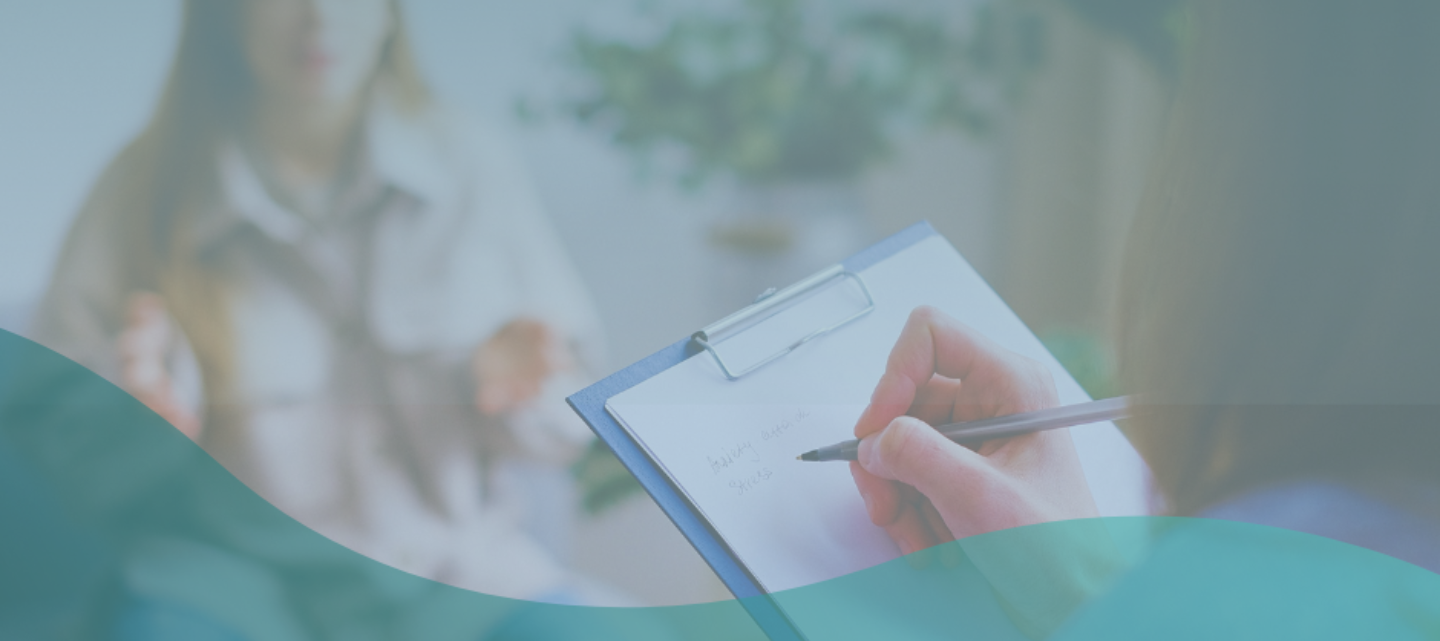
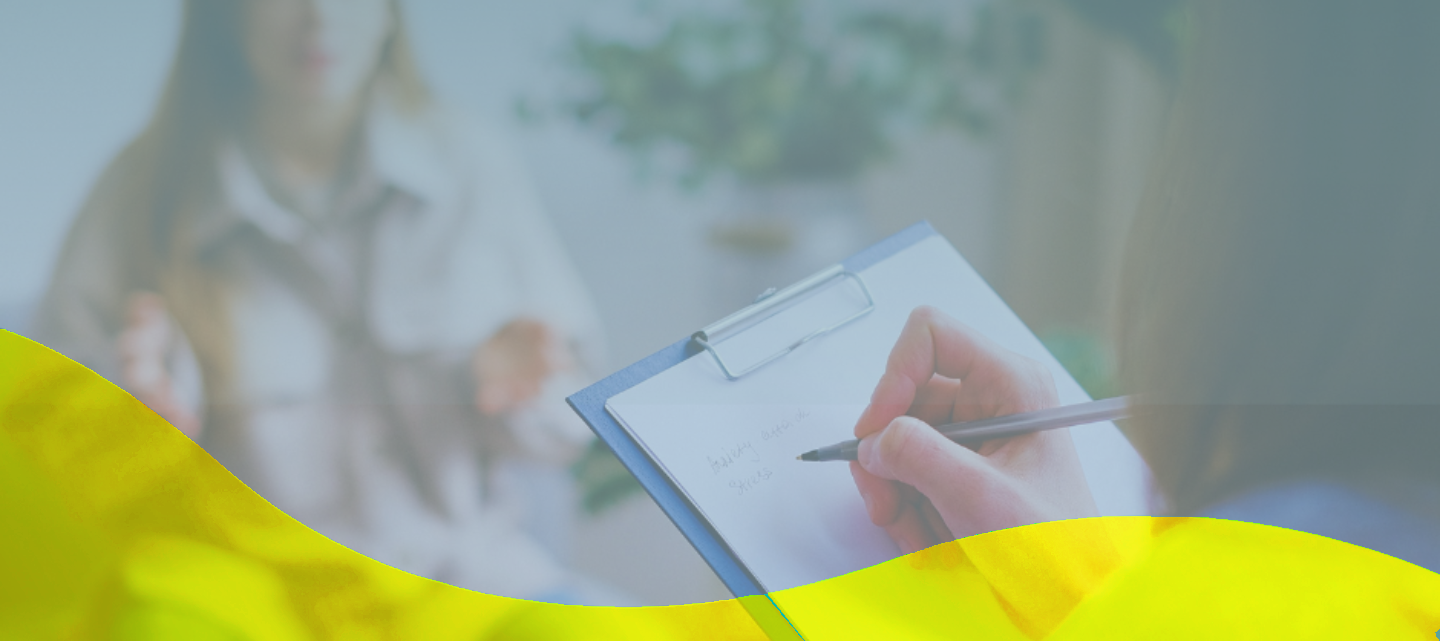
cambio de colores

Changed region(s): [[0.0, 0.4992, 1.0, 1.0]]

diff --git a/css/style.css b/css/style.css
@@ -131,7 +131,7 @@ a:focus {
 
 .sub_page .hero_area {
   min-height: auto;
-  background-color: #55C1CB;
+  background-color: #FEDF07;
 }
 
 .sub_page .hero_area .hero_bg_box {
@@ -150,7 +150,7 @@ a:focus {
 .navbar-brand span {
   font-weight: bold;
   font-size: 24px;
-  color: #ffffff;
+  color: #555555;
   text-transform: uppercase;
 }
 
@@ -164,7 +164,7 @@ a:focus {
 
 .custom_nav-container .navbar-nav .nav-item .nav-link {
   padding: 5px 20px;
-  color: #ffffff;
+  color: #555555;
   text-align: center;
   text-transform: uppercase;
   border-radius: 5px;
@@ -177,11 +177,11 @@ a:focus {
   height: 35px;
   padding: 0;
   border: none;
-  color: #ffffff;
+  color: #555555;
 }
 
 .custom_nav-container .nav_search-btn:hover {
-  color: #62d2a2;
+  color: #FEDF07;
 }
 
 .custom_nav-container .navbar-toggler {
@@ -304,7 +304,7 @@ a:focus {
   display: inline-block;
   padding: 10px 15px;
   background-color: #ffffff;
-  color: #62d2a2;
+  color: #FEDF07;
   border-radius: 5px;
   -webkit-transition: all 0.3s;
   transition: all 0.3s;
@@ -379,7 +379,7 @@ a:focus {
   width: 90px;
   height: 90px;
   margin-bottom: 15px;
-  background-color: #62d2a2;
+  background-color: #FEDF07;
   border-radius: 100%;
   display: -webkit-box;
   display: -ms-flexbox;
@@ -405,12 +405,12 @@ a:focus {
 }
 
 .department_section .box .detail-box a {
-  color: #1fab89;
+  color: #FEDF07;
   font-weight: 600;
 }
 
 .department_section .box .detail-box a:hover {
-  color: #62d2a2;
+  color: #FEDF07;
 }
 
 .department_section .btn-box {
@@ -426,17 +426,17 @@ a:focus {
 .department_section .btn-box a {
   display: inline-block;
   padding: 10px 45px;
-  background-color: #62d2a2;
+  background-color: #FEDF07;
   color: #ffffff;
   border-radius: 5px;
   -webkit-transition: all 0.3s;
   transition: all 0.3s;
-  border: 1px solid #62d2a2;
+  border: 1px solid #FEDF07;
 }
 
 .department_section .btn-box a:hover {
   background-color: transparent;
-  color: #62d2a2;
+  color: #FEDF07;
 }
 
 .about_section .row {
@@ -470,22 +470,22 @@ a:focus {
 .about_section .detail-box a {
   display: inline-block;
   padding: 10px 45px;
-  background-color: #62d2a2;
+  background-color: #FEDF07;
   color: #ffffff;
   border-radius: 5px;
   -webkit-transition: all 0.3s;
   transition: all 0.3s;
-  border: 1px solid #62d2a2;
+  border: 1px solid #FEDF07;
   margin-top: 15px;
 }
 
 .about_section .detail-box a:hover {
   background-color: transparent;
-  color: #62d2a2;
+  color: #FEDF07;
 }
 
 .doctor_section {
-  background: #55C1CB;
+  background: #FEDF07;
 }
 
 .doctor_section .heading_container {
@@ -541,12 +541,12 @@ a:focus {
 }
 
 .doctor_section .box .detail-box .social_box a {
-  color: #62d2a2;
+  color: #FEDF07;
   margin: 0 10px;
 }
 
 .doctor_section .box .detail-box .social_box a:hover {
-  color: #1fab89;
+  color: #FEDF07;
 }
 
 .doctor_section .box:hover .social_box {
@@ -567,17 +567,17 @@ a:focus {
 .doctor_section .btn-box a {
   display: inline-block;
   padding: 10px 45px;
-  background-color: #1fab89;
+  background-color: #FEDF07;
   color: #ffffff;
   border-radius: 5px;
   -webkit-transition: all 0.3s;
   transition: all 0.3s;
-  border: 1px solid #1fab89;
+  border: 1px solid #FEDF07;
 }
 
 .doctor_section .btn-box a:hover {
   background-color: transparent;
-  color: #1fab89;
+  color: #FEDF07;
 }
 
 .contact_section {
@@ -629,17 +629,17 @@ a:focus {
   text-transform: uppercase;
   display: inline-block;
   padding: 12px 55px;
-  background-color: #1fab89;
+  background-color: #FEDF07;
   color: #ffffff;
   border-radius: 5px;
   -webkit-transition: all 0.3s;
   transition: all 0.3s;
-  border: 1px solid #1fab89;
+  border: 1px solid #FEDF07;
 }
 
 .contact_section .form_container button:hover {
   background-color: transparent;
-  color: #1fab89;
+  color: #FEDF07;
 }
 
 .contact_section .map_container {
@@ -716,7 +716,7 @@ a:focus {
 }
 
 .client_section .box .detail-box .name h6 {
-  color: #62d2a2;
+  color: #FEDF07;
   font-size: 20px;
 }
 
@@ -739,7 +739,7 @@ a:focus {
   background-repeat: no-repeat;
   background-size: 12px;
   background-position: center;
-  background-color: #62d2a2;
+  background-color: #FEDF07;
   background-position: center;
   border-radius: 5px;
   margin: 0 2.5px;
@@ -747,7 +747,7 @@ a:focus {
 
 .client_section .carousel-control-prev:hover,
 .client_section .carousel-control-next:hover {
-  background-color: #1fab89;
+  background-color: #ffffff;
 }
 
 .client_section .carousel-control-next {
@@ -755,8 +755,8 @@ a:focus {
 }
 
 .footer_section {
-  background: #178066;
-  color: #ffffff;
+  background: hwb(61 22% 5%);
+  color: #555555;
   padding: 60px 0 15px 0;
   position: relative;
 }
@@ -782,7 +782,7 @@ a:focus {
 
 .footer_section .footer_contact .contact_link_box a {
   margin: 5px 0;
-  color: #ffffff;
+  color: #555555;
 }
 
 .footer_section .footer_contact .contact_link_box a i {
@@ -790,7 +790,7 @@ a:focus {
 }
 
 .footer_section .footer_contact .contact_link_box a:hover {
-  color: #62d2a2;
+  color: #ffffff;
 }
 
 .footer_section .footer_social {
@@ -811,14 +811,14 @@ a:focus {
   -webkit-box-align: center;
       -ms-flex-align: center;
           align-items: center;
-  color: #ffffff;
+  color: #555555;
   border-radius: 100%;
   margin-right: 10px;
   font-size: 24px;
 }
 
 .footer_section .footer_social a:hover {
-  color: #62d2a2;
+  color: #ffffff;
 }
 
 .footer_section .footer_links {
@@ -838,11 +838,11 @@ a:focus {
           align-items: center;
   margin-right: 15px;
   margin-bottom: 15px;
-  color: #ffffff;
+  color: #555555;
 }
 
 .footer_section .footer_links a:hover {
-  color: #62d2a2;
+  color: #ffffff;
 }
 
 .footer_section form input {
@@ -877,18 +877,18 @@ a:focus {
   text-align: center;
   display: inline-block;
   padding: 10px 55px;
-  background-color: #62d2a2;
-  color: #ffffff;
+  background-color: #FEDF07;
+  color: #555555;
   border-radius: 5px;
   -webkit-transition: all 0.3s;
   transition: all 0.3s;
-  border: 1px solid #62d2a2;
+  border: 1px solid #FEDF07;
   margin-top: 15px;
 }
 
 .footer_section form button:hover {
   background-color: transparent;
-  color: #62d2a2;
+  color: #FEDF07;
 }
 
 .footer_section .footer-info {
@@ -896,7 +896,7 @@ a:focus {
 }
 
 .footer_section .footer-info p {
-  color: #ffffff;
+  color: #555555;
   padding: 25px 0;
   margin: 0;
 }

diff --git a/index.html b/index.html
@@ -72,7 +72,7 @@
                 <a class="nav-link" href="contacto.html">Contacto</a>
               </li>
               <li class="nav-item">
-                <a class="nav-link" href="https://psicologos-consultorio.web.app/" target="_blank" style="color: #ffffff ; background-color: #55C1CB; ">Soy Profesional</a>
+                <a class="nav-link" href="https://psicologos-consultorio.web.app/" target="_blank" style="color: #ffffff ; background-color: #F19E1E; ">Soy Profesional</a>
               </li>
               <!-- <form class="form-inline">
                 <button class="btn  my-2 my-sm-0 nav_search-btn" type="submit">
